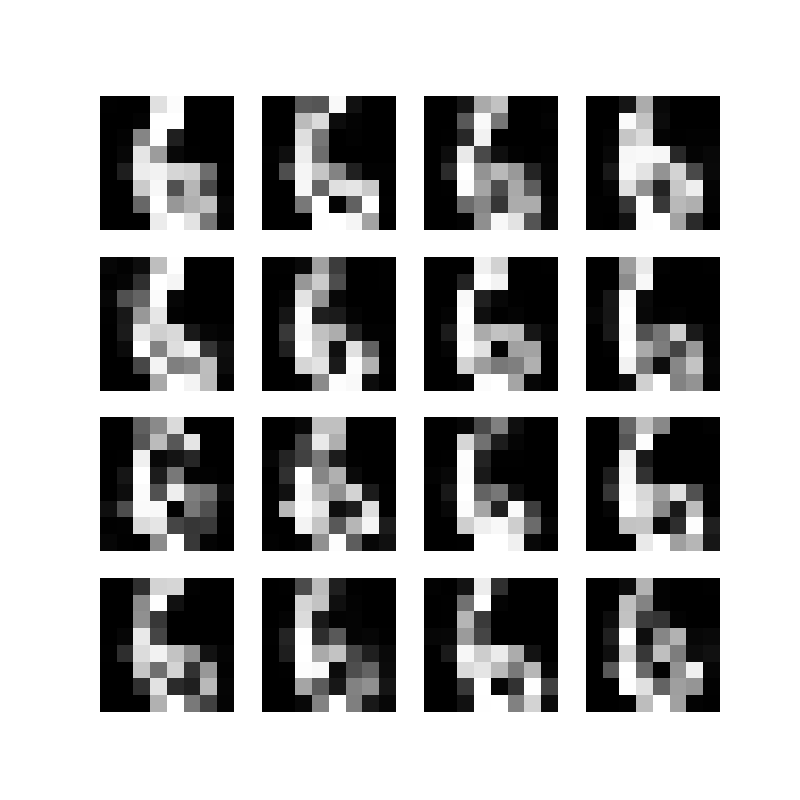
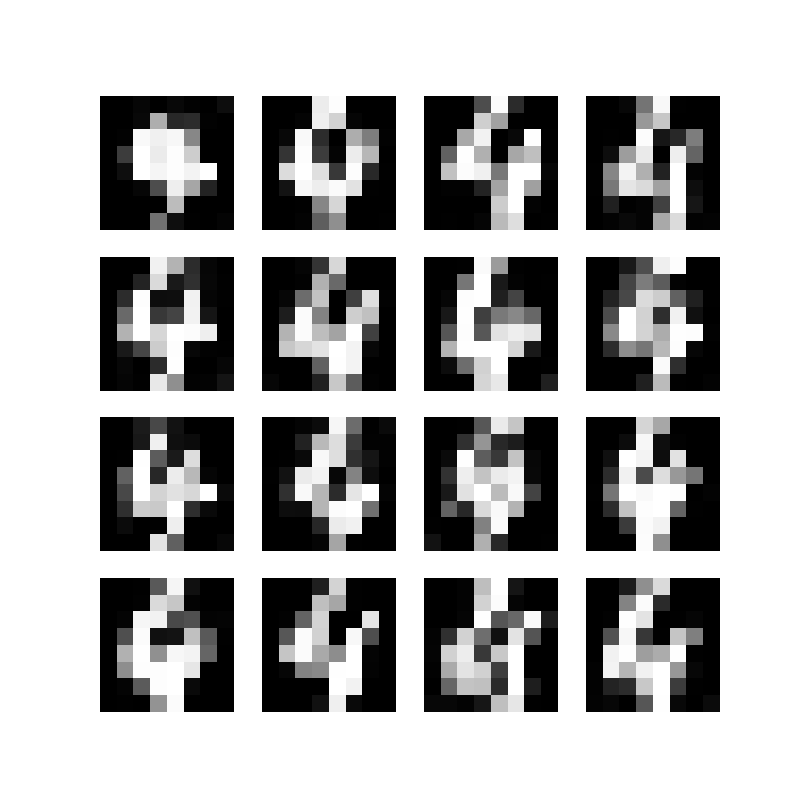
made fixes to dataloader and batch size

diff --git a/5LayerGANForFaces.py b/5LayerGANForFaces.py
@@ -40,10 +40,15 @@ transform = transforms.Compose([
 image_dir = 'img_align_celeba'
 
 # Create a dataset
-dataset = CelebADataset(image_dir=image_dir, transform=transform, num_samples=100000)
+dataset = CelebADataset(image_dir=image_dir, transform=transform)
+
+# Batch Size Hyperparameter
+global_batch_size = 64
 
 # Create a data loader
-dataloader = DataLoader(dataset, batch_size=32, shuffle=True)
+# num_gpus = torch.cuda.device_count()
+# print("Number of available GPUs:", num_gpus)
+dataloader = DataLoader(dataset, batch_size=global_batch_size, shuffle=True, pin_memory=True, num_workers=8)
 
 # Create a 3x3 grid for the images
 fig, axes = plt.subplots(3, 3, figsize=(9, 9))
@@ -139,7 +144,7 @@ optimizerD = torch.optim.Adam(netD.parameters(), lr=lr, betas=(beta1, 0.999))
 optimizerG = torch.optim.Adam(netG.parameters(), lr=lr, betas=(beta1, 0.999))
 
 # Training Loop
-for epoch in range(num_epochs):
+for epoch in range(1, num_epochs + 1):
     for i, data in enumerate(dataloader, 0):
         # Transfer data tensor to GPU/CPU (device)
         real_data = data.to(device) * 2 - 1  # Scale images to [-1, 1]
@@ -169,13 +174,13 @@ for epoch in range(num_epochs):
         errG.backward()
         optimizerG.step()
 
-        if i % 10 == 0:
+        if i % 50 == 0:
             print(f'[{epoch}/{num_epochs}][{i}/{len(dataloader)}] Loss_D: {errD.item():.4f} Loss_G: {errG.item():.4f}')
 
 print("Training is complete!")
 
 
-fixed_noise = torch.randn(32, 100, 1, 1, device=device)
+fixed_noise = torch.randn(global_batch_size, 100, 1, 1, device=device)
 
 # After training, use the generator to produce images from the fixed noise vectors
 with torch.no_grad():

diff --git a/2Layer4FilterGAN-Numbers.py b/2Layer4FilterGAN-Numbers.py
@@ -13,7 +13,7 @@ device = torch.device("cuda" if torch.cuda.is_available() else "cpu")
 digits = datasets.load_digits()
 
 # Reshape data and scale to [-1, 1]
-number_to_generate = 6
+number_to_generate = 4
 data = torch.tensor(digits.images[digits.target == number_to_generate] / 8 - 1).float().unsqueeze(1)  # Scale and add channel dimension
 targets = torch.tensor(digits.target[digits.target == number_to_generate])
 dataset = TensorDataset(data, targets)
